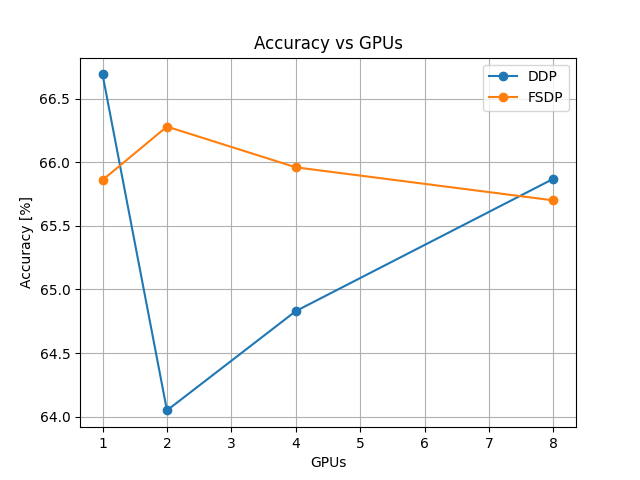
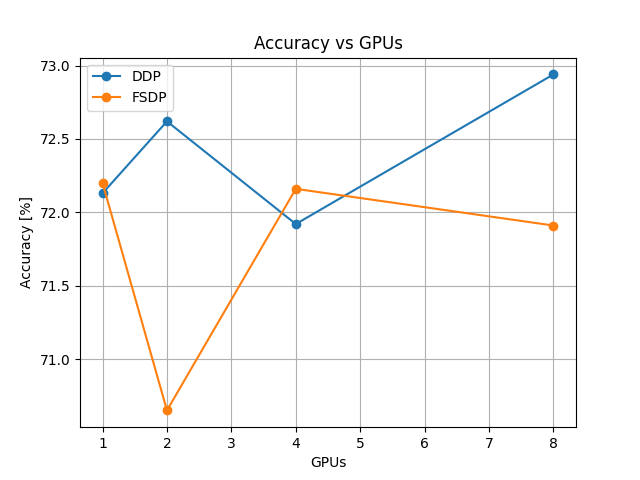
more epochs

diff --git a/notebooks/distributed/.solution/run_benchmarks.py b/notebooks/distributed/.solution/run_benchmarks.py
@@ -43,7 +43,7 @@ export MPICH_GPU_SUPPORT_ENABLED=0
 export CUDA_CACHE_DISABLE=1
 export OMP_NUM_THREADS=64
 
-srun -ul --environment=./edf.toml python main.py --method {method} --epochs 5 --batch_size 256
+srun -ul --environment=./edf.toml python main.py --method {method} --epochs 10 --batch_size 256
 """
 
 for cfg in configs:

diff --git a/notebooks/distributed/run_benchmarks.py b/notebooks/distributed/run_benchmarks.py
@@ -43,7 +43,7 @@ export MPICH_GPU_SUPPORT_ENABLED=0
 export CUDA_CACHE_DISABLE=1
 export OMP_NUM_THREADS=64
 
-srun -ul --environment=./edf.toml python main.py --method {method} --epochs 5 --batch_size 256
+srun -ul --environment=./edf.toml python main.py --method {method} --epochs 10 --batch_size 256
 """
 
 for cfg in configs:
